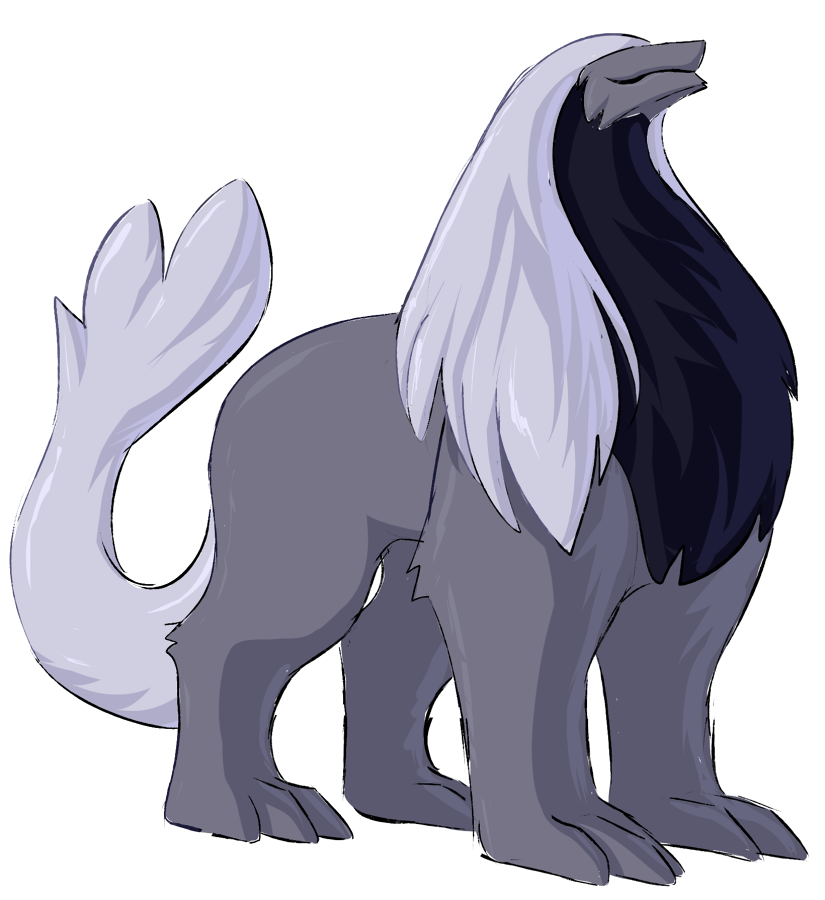
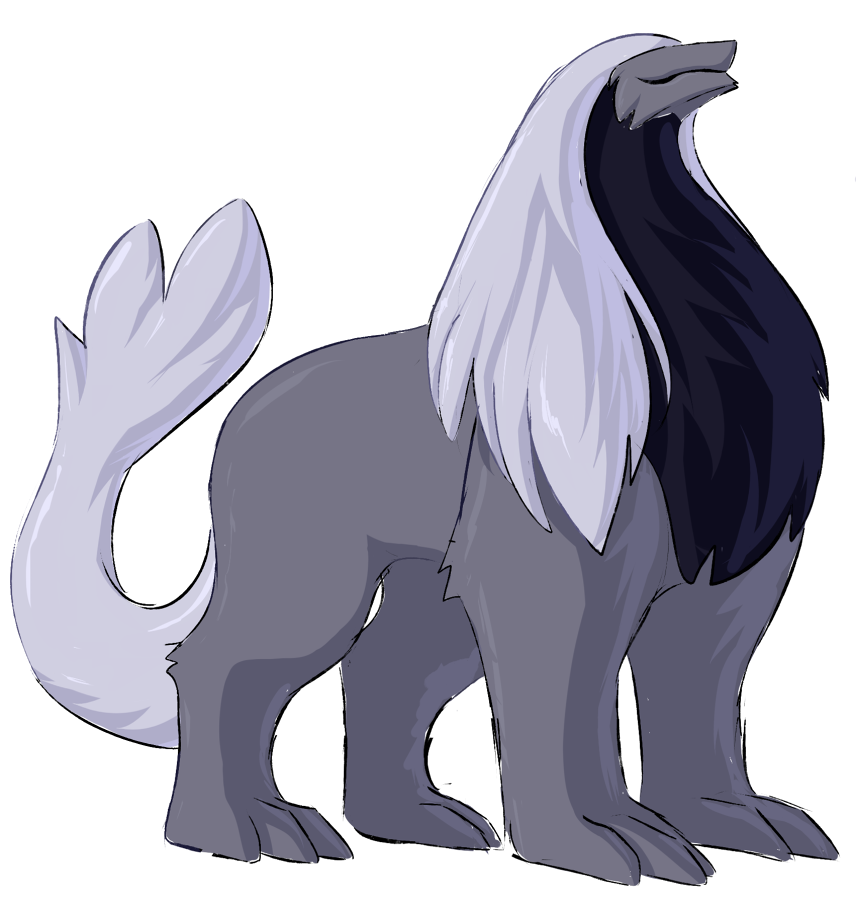
Serguar Descrunching
-Descrunched serguar

diff --git a/src/Pages/Guarians/Tabs/KnownGuarians/Guarians/serguar/serguar.tsx b/src/Pages/Guarians/Tabs/KnownGuarians/Guarians/serguar/serguar.tsx
@@ -26,6 +26,6 @@ export const serguar: GuarianInfo = {
         ref: fluffyRef,
       },
     ],
-    maxRefWidth: 825,
+    maxRefWidth: 857,
   },
 };
